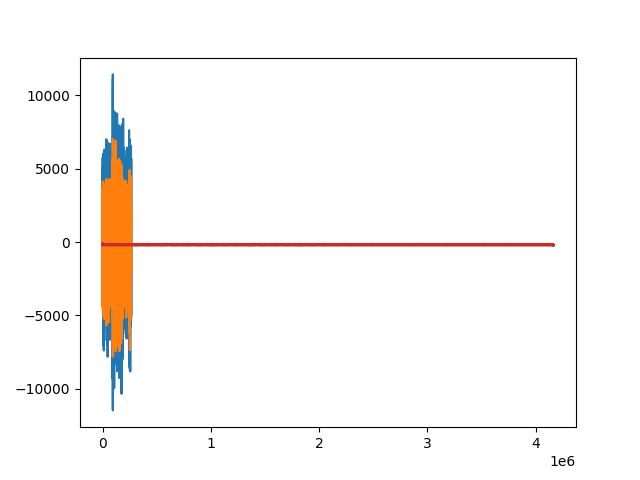
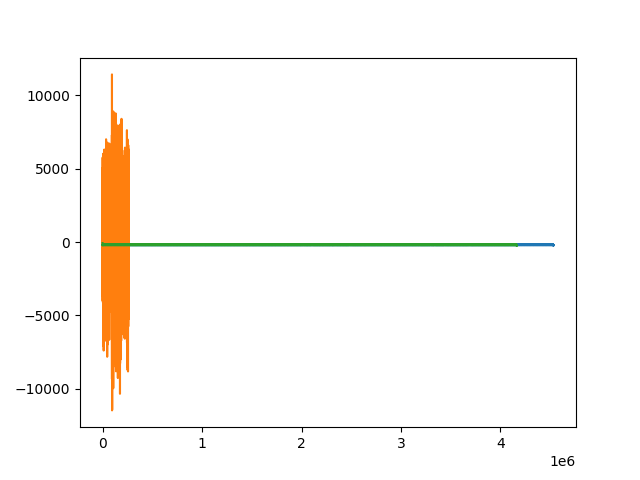
debuggin issues with musescore wavs

diff --git a/inference.py b/inference.py
@@ -66,7 +66,7 @@ def inference(a):
             write(output_file, h.sampling_rate, audio)
             print(output_file)
 
-            plt.plot(audio)
+            plt.plot(audio[:, 0])
             plt.savefig(f'figures/{filname}_fig.png')
 
 
